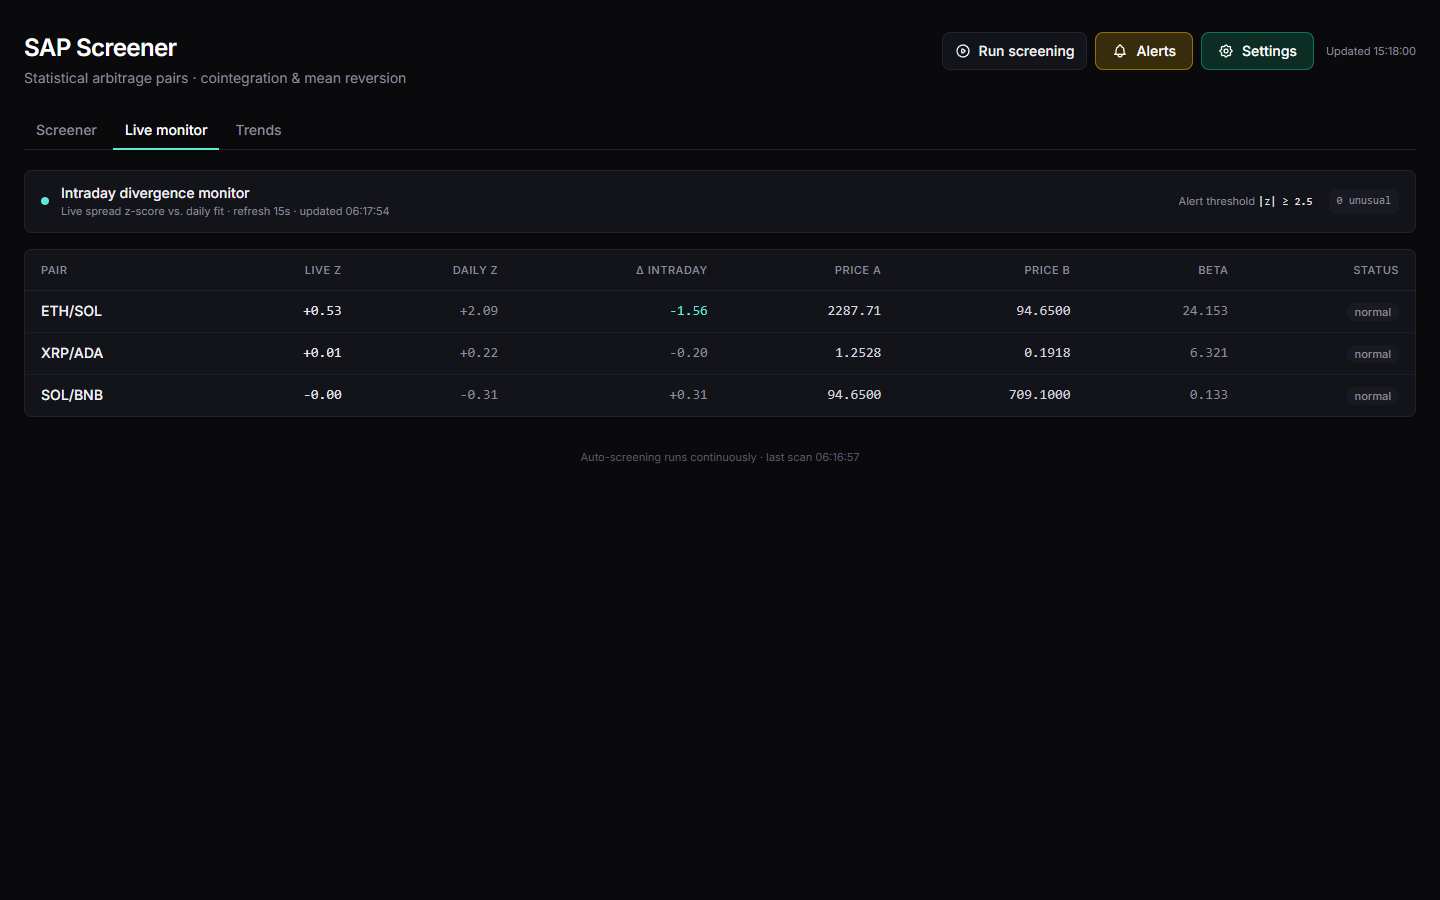
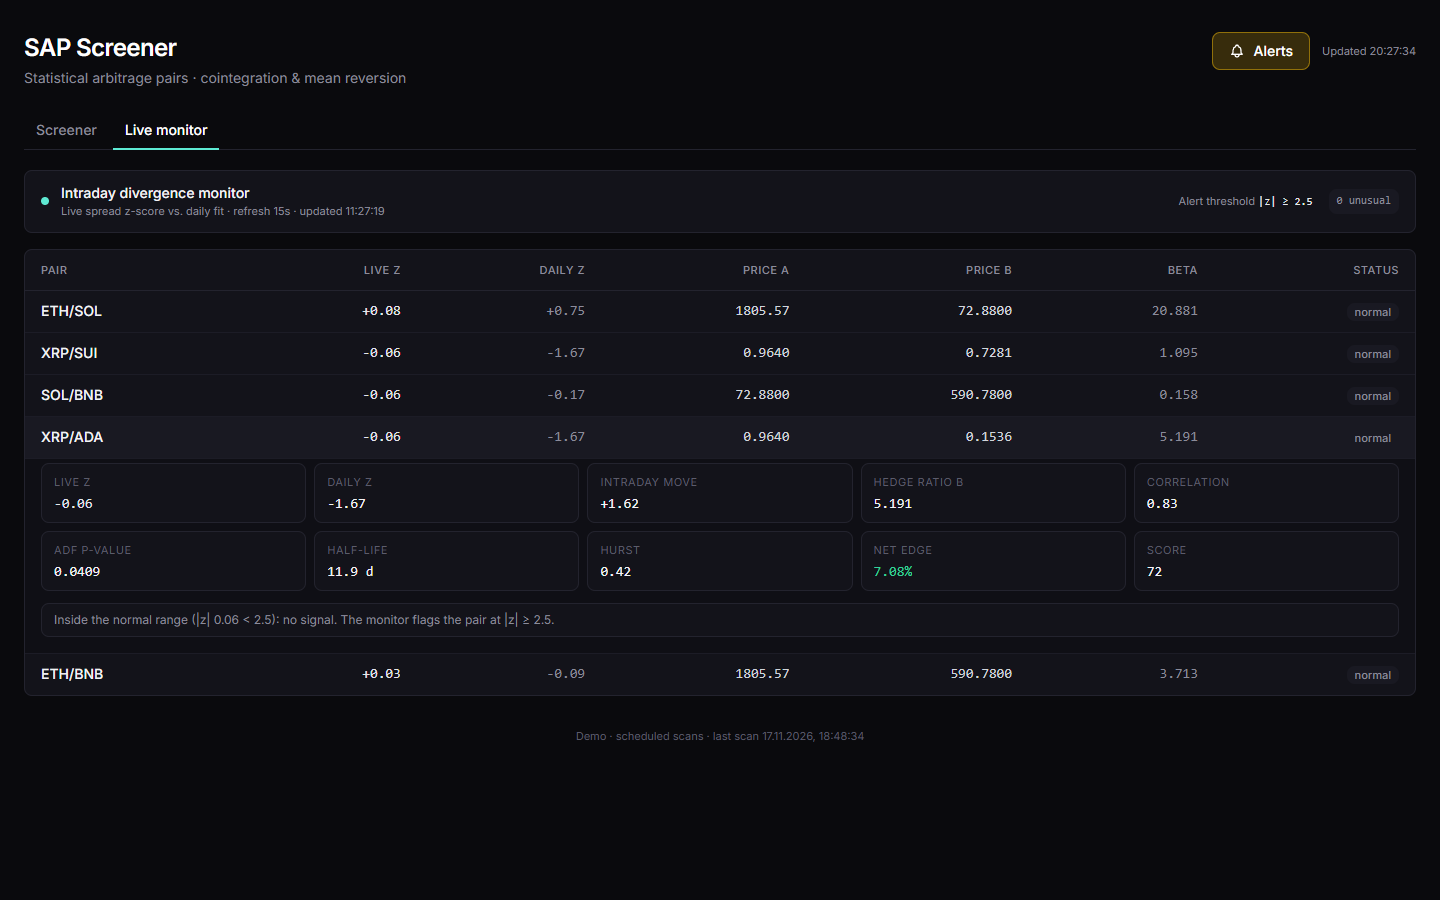
docs: README showcase, fresh screenshots, social preview, 1.0.0 changelog (#38)

diff --git a/README.md b/README.md
@@ -1,27 +1,79 @@
-# Statistical Arbitrage Pairs Screener (crypto-sap-screener)
-
-[![CI](https://github.com/imnotkeril/crypto-sap-screener/actions/workflows/ci.yml/badge.svg)](https://github.com/imnotkeril/crypto-sap-screener/actions/workflows/ci.yml)
-[![License: MIT](https://img.shields.io/badge/License-MIT-yellow.svg)](LICENSE)
-![Python 3.11](https://img.shields.io/badge/python-3.11-blue)
-![React 18](https://img.shields.io/badge/react-18-61dafb)
+<h1 align="center">SAP Screener</h1>
+<p align="center"><b>Statistical-arbitrage pairs screener for crypto perpetuals</b><br>
+Cointegration, mean-reversion half-life, expected net edge after costs, Kalman live z-score and a backtester, in a FastAPI + React dashboard.</p>
 
 <p align="center">
+  <a href="https://crypto-sap-screener.vercel.app"><b>Live demo</b></a>
+  &nbsp;·&nbsp;
+  <a href="#quickstart">Quickstart</a>
+  &nbsp;·&nbsp;
   <a href="docs/RULES.md">Formulas</a>
   &nbsp;·&nbsp;
   <a href="docs/RUNBOOK.md">Runbook</a>
   &nbsp;·&nbsp;
-  <a href="llms.txt">API reference (llms.txt)</a>
-  &nbsp;·&nbsp;
-  <a href="CONTRIBUTING.md">Contributing</a>
+  <a href="llms.txt">API reference</a>
   &nbsp;·&nbsp;
   <a href="CHANGELOG.md">Changelog</a>
 </p>
 
-A crypto pairs screener for statistical arbitrage. It loads Binance USDT futures prices through [ccxt](https://github.com/ccxt/ccxt), tests pairs of assets for cointegration, ranks them by a composite score that includes expected net edge after costs, and tracks the intraday z-score of the top pairs with a Kalman-filter hedge ratio. Results are shown in a React dashboard and served by a FastAPI API.
+<p align="center">
+  <a href="https://github.com/imnotkeril/crypto-sap-screener/actions/workflows/ci.yml"><img src="https://github.com/imnotkeril/crypto-sap-screener/actions/workflows/ci.yml/badge.svg" alt="CI"></a>
+  <a href="LICENSE"><img src="https://img.shields.io/badge/License-MIT-yellow.svg" alt="License: MIT"></a>
+  <img src="https://img.shields.io/badge/tests-140%20passed-brightgreen" alt="140 tests">
+  <img src="https://img.shields.io/badge/ruff-clean-261230?logo=ruff&logoColor=white" alt="ruff clean">
+  <img src="https://img.shields.io/badge/mypy-clean-2a6db2" alt="mypy clean">
+  <img src="https://img.shields.io/badge/Python-3.11-3776AB?logo=python&logoColor=white" alt="Python 3.11">
+  <a href="https://fastapi.tiangolo.com/"><img src="https://img.shields.io/badge/FastAPI-backend-009688?logo=fastapi&logoColor=white" alt="FastAPI"></a>
+  <img src="https://img.shields.io/badge/React-18-61dafb?logo=react&logoColor=black" alt="React 18">
+  <img src="https://img.shields.io/badge/TypeScript-strict-3178C6?logo=typescript&logoColor=white" alt="TypeScript">
+  <img src="https://img.shields.io/badge/Deployed%20on-Vercel-000000?logo=vercel&logoColor=white" alt="Vercel">
+</p>
+
+<p align="center">
+  <a href="https://crypto-sap-screener.vercel.app"><img src="docs/img/screener.png" alt="SAP Screener: ranked cointegrated pairs" width="900"></a>
+</p>
 
 > **Disclaimer.** This is a research and educational tool. It is not investment advice. Statistical tests, backtests and simulated results do not guarantee future performance, and trading can lose all capital. The software **never sends orders** to any exchange. It has no order-placement code path and no live trading keys are used.
 >
 > **Survivorship bias.** The universe is today's top-volume listed Binance perpetuals: delisted assets are absent and assets with under 80% of the requested history are dropped, so results look better than a point-in-time universe would.
+
+## Try it
+
+**[crypto-sap-screener.vercel.app](https://crypto-sap-screener.vercel.app)** is a read-only public demo. It shows the latest scheduled scans (the demo never runs a scan on request):
+
+| Scan | Universe | Window | Refreshed |
+|---|---|---|---|
+| Daily | top 60 Binance USDT perpetuals by volume | 365 days of daily candles | once a day |
+| Hourly | about 50 crypto majors | 30 days of hourly candles, Benjamini-Hochberg FDR control | once a day |
+
+Open a pair for its spread analysis, or the **Live monitor** tab for the intraday divergence of the daily pairs (live prices from Binance, Kalman-filtered hedge ratio). To scan on demand with your own settings, [run it locally](#quickstart).
+
+## Highlights
+
+- **Cointegration, not just correlation.** Engle-Granger in both directions with a Bonferroni adjustment; optional Benjamini-Hochberg FDR across thousands of candidate pairs.
+- **Trade-ability, not just statistics.** Half-life of mean reversion, Hurst exponent and an **expected net edge** after fees, slippage and funding.
+- **Live divergence monitor.** Re-fits the hedge ratio with a Kalman filter on 5-minute candles and flags unusual z-scores.
+- **Backtester** with transaction costs, rolling hedge ratios and next-bar fills; **position calculator**; alerts and CSV/Excel export.
+- **Engineered like a product.** 140 tests (including regression tests for 10 audit findings), ruff and mypy clean, CI on every push, security notes and a runbook.
+
+## Architecture
+
+```mermaid
+flowchart LR
+    B[(Binance USDT-M<br/>futures API)] -->|ccxt candles| API
+    subgraph Backend [FastAPI backend]
+        API[Screener engine<br/>correlation, Engle-Granger,<br/>half-life, Hurst, net edge]
+        LIVE[Intraday monitor<br/>Kalman hedge, live z-score]
+        BT[Backtester and<br/>position calculator]
+        API --> STORE[(Results store<br/>SQLite / PostgreSQL<br/>or Blob snapshot)]
+        API --> LIVE
+    end
+    CRON[Scheduled scans<br/>cron] --> API
+    STORE --> REST[REST /api/v1]
+    LIVE --> REST
+    BT --> REST
+    REST --> UI[React + Vite dashboard<br/>screener, live monitor, backtest]
+```
 
 ## What it does
 
@@ -37,14 +89,14 @@ Included but separate: a **market data layer** (`backend/app/data_layer`), a sta
 
 ## Screenshots
 
-Taken on a local stack with real Binance data (1d scan, 1035 pairs tested, 3 found).
-
 | | |
 |---|---|
-| ![Screener results](docs/img/screener.png) | ![Pair details](docs/img/pair-details.png) |
-| Screener: ranked pairs, correlation matrix | Pair details: z-score, beta, Hurst, spread stats |
-| ![Live monitor](docs/img/live-monitor.png) | ![Backtest](docs/img/backtest-results.png) |
-| Live monitor: intraday z-score with Kalman hedge | Backtest of a z-score strategy on one pair |
+| ![Daily scan](docs/img/screener.png) | ![Hourly scan](docs/img/screener-hourly.png) |
+| Daily scan: ranked pairs with score, ADF p-value, half-life and net edge | Hourly scan: mean reversion over hours to days |
+| ![Pair details](docs/img/pair-details.png) | ![Live monitor](docs/img/live-monitor.png) |
+| Spread analysis: z-score range, deviation percentile, mean-reversion statistics | Live monitor: live z-score vs the daily fit, hedge direction, edge |
+| ![Backtest](docs/img/backtest-results.png) | |
+| Backtest of a z-score strategy on one pair (local stack) | |
 
 ## Stack
 

diff --git a/CHANGELOG.md b/CHANGELOG.md
@@ -1,6 +1,10 @@
 # Changelog
 
 ## Unreleased
+
+## [1.0.0] - 2026-11-17
+First public release: audited screener, public demo and showcase documentation.
+- README: hero, badges, architecture diagram, fresh screenshots of the live demo, social preview image (`docs/img/social-preview.png`).
 - Live demo on Vercel: Blob snapshot persistence for serverless, daily cron scan, frontend wired through `VITE_API_URL` (2026-11-17). Dependabot now groups minor/patch updates and skips majors.
 - Final polish: FastAPI lifespan instead of deprecated `on_event`, pydantic `SettingsConfigDict`, unique OpenAPI ids for the cron route, ruff clean, CONTRIBUTING, issue/PR templates, Dependabot.
 - Verified 2026-11-15: 128 tests pass, ruff and mypy clean, frontend build clean, live 1d scan on fresh Binance data (2628 pairs tested, 10 found) matches an independent correlation check.
